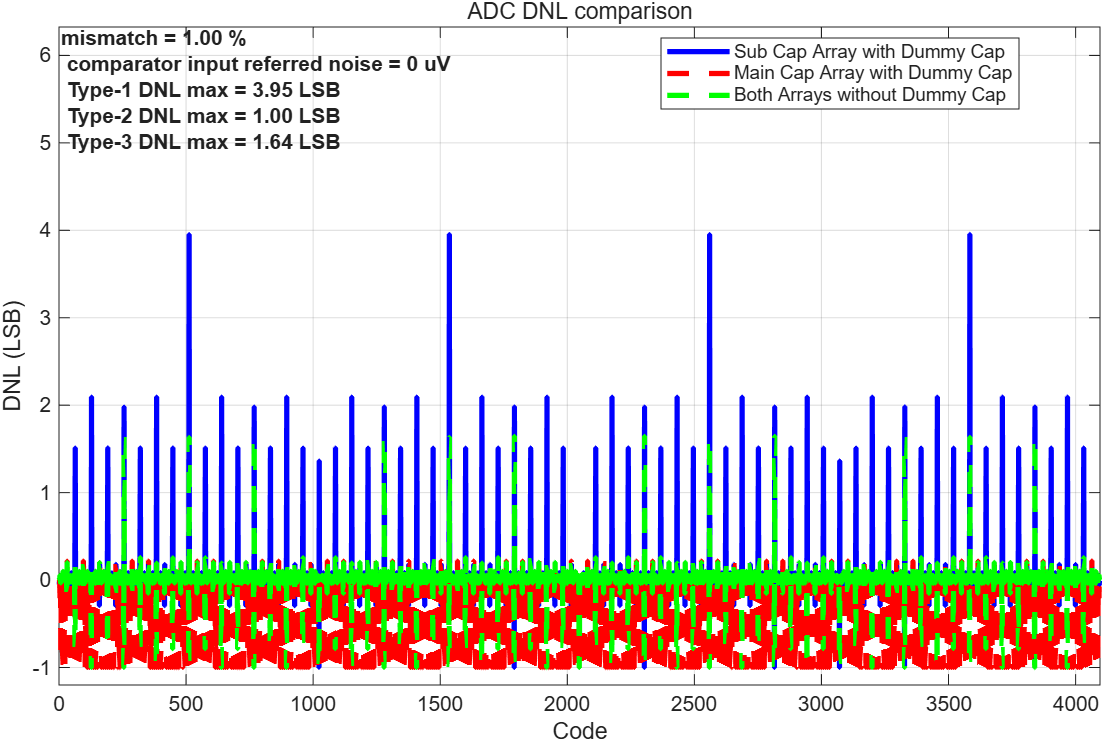
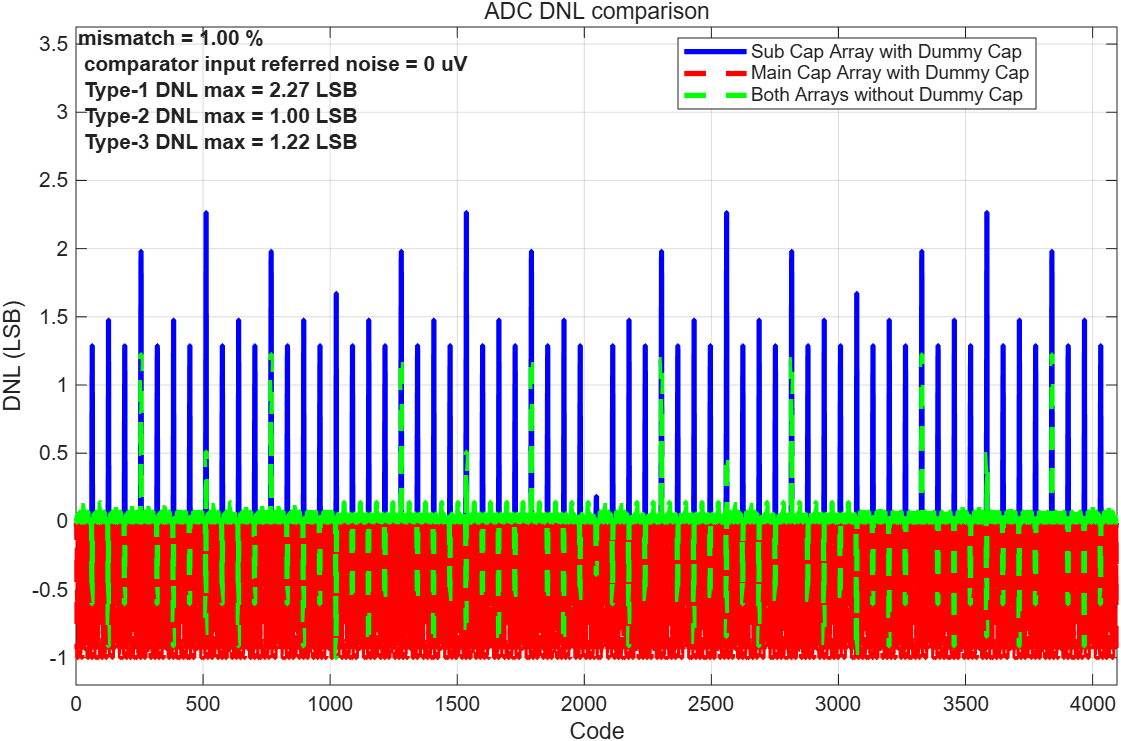
add the conversion error test of different bwa adcs

diff --git a/testbench/sim-bwa-architecture-comparison/simDifferentialConventionalBwaAdcComparisonDynamicTest.m b/testbench/sim-bwa-architecture-comparison/simDifferentialConventionalBwaAdcComparisonDynamicTest.m
@@ -7,7 +7,7 @@ format long g
 
 %% load simulation configuration and parameters
 
-p = configDynamicTest();
+p = configDifferentialBwaAdcComparisonDynamicTest();
 
 %% allocate storage for simulation data
 
@@ -16,46 +16,59 @@ idealDacOutput = nan( p.fftLen, 3 );
 sndrResult = nan( 3, 1 );
 enobResult = nan( 3, 1 );
 
+%% set the seed
+
+rng( 100 );
+
+%% generate samples
+
+samples = genDifferentialSamples( p );
+
 %% select different architecture
 
 dacTopology = {'split-array_type-1', 'split-array_type-2', 'split-array_type-3'};
-for iTopology = 1 : length( dacTopology )
-  p.dacTopology = dacTopology{ iTopology };
 
-  %% set the seed
+%% set the mismatch standard deviation for the comparison
 
-  rng( 10 );
+mismatchStd = { 0, 0.01};
 
-  %% generate samples
+for iMismatchStd = 1 : length( mismatchStd )
 
-  samples = genDifferentialSamples( p );
+  p.mismatchStd = mismatchStd{ iMismatchStd };
 
-  %% generate CDAC array
 
-  positiveCapArray = genBwaCdac( p );
-  negativeCapArray = genBwaCdac( p );
+  for iTopology = 1 : length( dacTopology )
 
-  %% run simulation
+    p.dacTopology = dacTopology{ iTopology };
 
-  for iSample = 1 : p.fftLen
-    samplePositive = samples.positiveInput( iSample );
-    sampleNegative = samples.negativeInput( iSample );
-    conversionResult( iSample, :, iTopology ) = differentialBwaConventionalSarAdc( samplePositive, sampleNegative, p, positiveCapArray, negativeCapArray );
-    idealDacOutput( iSample, iTopology ) = idealDAC( conversionResult( iSample, :, iTopology ) );
+    %% generate CDAC array
+
+    positiveCapArray = genBwaCdac( p );
+    negativeCapArray = genBwaCdac( p );
+
+    %% run simulation
+
+    for iSample = 1 : p.fftLen
+      samplePositive = samples.positiveInput( iSample );
+      sampleNegative = samples.negativeInput( iSample );
+      conversionResult( iSample, :, iTopology ) = differentialBwaConventionalSarAdc( samplePositive, sampleNegative, p, positiveCapArray, negativeCapArray );
+      idealDacOutput( iSample, iTopology ) = idealDAC( conversionResult( iSample, :, iTopology ) );
+    end
+
   end
-
   %% process simulation data
 
-  adcDynamicPerformanceMetrics = processAdcData( p, samples, idealDacOutput( :, iTopology ) );
+  adcDynamicPerformanceMetrics = processComparisonDifferentialBwaAdcDynamicData( p, samples, idealDacOutput );
 
   %% plot simulation results
 
-  obj = plotAdcDynamicSimulationResult( p, adcDynamicPerformanceMetrics );
+  obj = plotComparisonDifferentialAdcDynamicSimulationResult( p, adcDynamicPerformanceMetrics );
 
   %% export plots
 
-  drawingSpectrum = sprintf( 'drawing/comparison-differential-bwa-type-%d-spectrum.png', iTopology );
+  drawingSpectrum = sprintf( 'drawing/comparison-differential-bwa-spectrum-mismatch-%.2f.png', p.mismatchStd );
   exportgraphics( obj, drawingSpectrum );
 
 end
+
 

diff --git a/testbench/sim-bwa-architecture-comparison/simDifferentialBwaAdcGainErrorTest.m b/testbench/sim-bwa-architecture-comparison/simDifferentialBwaAdcGainErrorTest.m
@@ -1,0 +1,62 @@
+%% simulation preparation
+
+clear
+close all
+clc
+format long g
+
+%% load simulation configuration and parameters
+
+p = configDifferentialBwaAdcComparisonStaticTest();
+
+%% ramp histogram method
+
+%% generate samples
+
+histogramSamples = genDifferentialRampSamples( p );
+
+%% allocate storage for simulation data
+
+numTotalHistogramSamples = numel( histogramSamples.Positive );
+conversionHistogramResult = nan( numTotalHistogramSamples, p.adcResolution, 3 );
+histogramIdealDacOutput = nan( numTotalHistogramSamples, 3 );
+
+%% select different architecture
+
+dacTopology = {'split-array_type-1', 'split-array_type-2', 'split-array_type-3'};
+for iTopology = 1 : length( dacTopology )
+
+  p.dacTopology = dacTopology{ iTopology };
+
+  rng( 66 );
+ 
+  %% generate CDAC array
+
+  positiveCapArray = genBwaCdac( p );
+  negativeCapArray = genBwaCdac( p );
+
+  %% run simulation
+
+  for iSample = 1 : numTotalHistogramSamples
+    samplePositive = histogramSamples.Positive( iSample );
+    sampleNegative = histogramSamples.Negative( iSample );
+    conversionHistogramResult( iSample, :, iTopology ) = differentialBwaMonotonicSarAdc( samplePositive, sampleNegative, p, positiveCapArray, negativeCapArray );
+    histogramIdealDacOutput( iSample, iTopology ) = idealDAC( conversionHistogramResult( iSample, :, iTopology ) );
+  end
+
+
+end
+
+%% process simulation data
+
+adcHistogramStaticPerformanceMetrics  = processComparisonDifferentialMonotonicBwaAdcHistogramData( p, histogramIdealDacOutput );
+
+%% plot simulation results
+
+obj = plotDifferentialBwaAdcConversionError( p, adcHistogramStaticPerformanceMetrics );
+
+%% export plots
+
+drawing = 'drawing/comparison-differential-bwa-adc-conversion-error.png';
+exportgraphics( obj, drawing );
+

diff --git a/function/plotComparisonDifferentialAdcDynamicSimulationResult.m b/function/plotComparisonDifferentialAdcDynamicSimulationResult.m
@@ -1,0 +1,53 @@
+function obj = plotComparisonDifferentialAdcDynamicSimulationResult( p, adcDynamicPerformanceMetrics )
+
+  %% create figure
+
+  obj = figure;
+
+  %% topology names
+
+  topologyName = {'Sub Cap Array with Dummy Cap', 'Main Cap Array with Dummy Cap', 'Both Arrays without Dummy Cap'};
+
+  %% calculate noise floor
+
+  noiseFloor = - ( 6.02 * p.adcResolution + 1.76 ) - 10 * log10( p.fftLen / 2 );
+
+  %% plot different architectures
+
+  for iTopology = 1 : 3
+    %% set display floor
+
+    spectrumDb = adcDynamicPerformanceMetrics.spectrumDb( :, iTopology );
+    displayFloor = noiseFloor - 10;
+
+    spectrumDb( ~isfinite( spectrumDb ) ) = displayFloor;
+    subplot( 3, 1, iTopology );
+
+    plot( adcDynamicPerformanceMetrics.frequency / 1e6, adcDynamicPerformanceMetrics.spectrumDb, 'b', 'LineWidth', 2.5 );
+
+    xlabel( 'Frequency (MHz)' );
+    ylabel( 'Magnitude (dBFS)' );
+
+    title( topologyName{ iTopology } );
+
+    text( max( adcDynamicPerformanceMetrics.frequency / 1e6 ) * 0.7, -20, sprintf( 'SNDR = %.2f dB\nENOB = %.2f bit', adcDynamicPerformanceMetrics.sndr( iTopology ), adcDynamicPerformanceMetrics.enob( iTopology ) ), 'FontWeight', 'bold' );
+
+    ylim( [noiseFloor - 10, 5] );
+
+    grid on;
+
+  end
+
+  %% overall title
+
+  if p.mismatchStd == 0
+
+    sgtitle( 'BWA ADC Dynamic Comparison without Mismatch' );
+
+  else
+
+    sgtitle( sprintf( 'BWA ADC Dynamic Comparison with %.2f %% Mismatch', p.mismatchStd * 100 ) );
+
+  end
+
+end

diff --git a/function/processComparisonDifferentialMonotonicBwaAdcHistogramData.m b/function/processComparisonDifferentialMonotonicBwaAdcHistogramData.m
@@ -1,0 +1,36 @@
+function adcStaticPerformanceMetrics = processComparisonDifferentialMonotonicBwaAdcHistogramData( p,  conversionResult )
+
+  %% allocate storage for simulation data
+  codeCount = nan( 2 .^ p.adcResolution, 3 );
+  dnlResult = nan( 2 .^ p.adcResolution - 2, 3 );
+  inlResult = nan( 2 .^ p.adcResolution - 2, 3 );
+  gainError = nan( 3, 1 );
+  offsetError = nan( 3, 1 );
+
+  %% calculate ideal LSB and edges
+
+  edges = -0.5 : 1 : 2 .^ ( p.adcResolution ) - 0.5;
+
+  for iTopology = 1 : 3
+
+    %% find actual hits of each code
+
+    codeCount( :, iTopology ) = histcounts( conversionResult( :, iTopology ), edges ) .';
+
+    %% calculate DNL and INL
+
+    dnlResult( :, iTopology ) = codeCount( 2 : end - 1, iTopology ) / p.samplesPerStair - 1;
+    inlResult( :, iTopology ) = cumsum( dnlResult( :, iTopology ) );
+    fitCoefficient = polyfit( 1 : 2 .^ p.adcResolution - 2, inlResult( :, iTopology ) .' , 1 );
+    gainError( iTopology ) = fitCoefficient( 1 ) * 100;
+    offsetError( iTopology ) = fitCoefficient( 2 );
+  end
+
+  %% save the result
+
+  adcStaticPerformanceMetrics.inlResult = inlResult;
+  adcStaticPerformanceMetrics.inlCodeIndex = 1 : 2 .^ p.adcResolution - 2;
+  adcStaticPerformanceMetrics.gainError = gainError;
+  adcStaticPerformanceMetrics.offsetError = offsetError;
+
+end

diff --git a/function/processComparisonDifferentialBwaAdcDynamicData.m b/function/processComparisonDifferentialBwaAdcDynamicData.m
@@ -1,0 +1,47 @@
+function adcDynamicPerformanceMetrics = processComparisonDifferentialBwaAdcDynamicData( p, samples, idealDacOutput )
+
+  %% delete DC component
+
+  fftSample = idealDacOutput - mean( idealDacOutput, 1 );
+
+  %% calculate FFT
+
+  spectrum = fft( fftSample, [], 1 );
+
+  %% obtain single-sided spectrum
+
+  spectrumSingle = spectrum( 1 : p.fftLen / 2, : );
+
+  %% calculate SNDR
+  
+  sndrResult = nan( 3, 1 );
+  for iSndrResult = 1 : 3
+    sndrResult( iSndrResult ) = calculateSNR( spectrumSingle( : , iSndrResult ), samples.toneBin, 0 );
+  end
+
+  %% calculate ENOB
+
+  enobResult = ( sndrResult - 1.76 ) / 6.02;
+ %% generate frequency axis
+
+  frequency = ( 0 : p.fftLen / 2 - 1 ).' * p.fs / p.fftLen;
+
+  %% normalize spectrum for display
+
+  fullScale = 2 .^ ( p.adcResolution - 1 );
+  spectrumNormalized = spectrumSingle / ( p.fftLen / 2 ) / fullScale;
+
+  %% convert spectrum to dB
+
+  spectrumDb = dbv( spectrumNormalized );
+
+  %% store results
+
+  adcDynamicPerformanceMetrics.sndr = sndrResult;
+  adcDynamicPerformanceMetrics.enob = enobResult;
+  adcDynamicPerformanceMetrics.frequency = frequency;
+  adcDynamicPerformanceMetrics.spectrum = spectrumSingle;
+  adcDynamicPerformanceMetrics.spectrumDb = spectrumDb;
+
+end
+

diff --git a/function/plotDifferentialBwaAdcConversionError.m b/function/plotDifferentialBwaAdcConversionError.m
@@ -1,0 +1,40 @@
+function obj = plotDifferentialBwaAdcConversionError( p, adcStaticPerformanceMetrics )
+
+  %% create figure
+
+  obj = figure;
+
+  %% calculate voltage LSB
+
+  voltLSB = 2 * p.vRef / ( 2 .^   ( p.adcResolution ) );
+
+  %% topology names
+
+  topologyName = {'Sub Cap Array with Dummy Cap', 'Main Cap Array with Dummy Cap', 'Both Arrays without Dummy Cap'};
+
+  %% plot different architectures
+
+  for iTopology = 1 : 3
+
+    subplot( 3, 1, iTopology );
+
+    plot( adcStaticPerformanceMetrics.inlCodeIndex, adcStaticPerformanceMetrics.inlResult( : , iTopology ) * voltLSB, 'b', 'LineWidth', 2.5 );
+
+    xlabel( 'Code' );
+    ylabel( 'Conversion Error (V)' );
+    title( topologyName{ iTopology } );
+
+    text( 0.99, 0.99, sprintf( 'gain error = %.2f %%  ', adcStaticPerformanceMetrics.gainError( iTopology ) ), 'Units', 'normalized', 'HorizontalAlignment', 'right','VerticalAlignment', 'top', 'FontWeight', 'bold' );
+    allInlResult = adcStaticPerformanceMetrics.inlResult( :, iTopology ) * voltLSB;
+    xlim( [0, 2 .^   ( p.adcResolution ) ] );
+    ylim( [1.2 * min( allInlResult ), 1.5 * max( allInlResult )] );
+
+    grid on;
+
+  end
+
+  %% overall title
+
+  sgtitle( 'BWA ADC Conversion Error Comparison ' );
+
+end

diff --git a/sim-config/configDifferentialBwaAdcComparisonDynamicTest.m b/sim-config/configDifferentialBwaAdcComparisonDynamicTest.m
@@ -1,0 +1,37 @@
+function p = configDifferentialBwaAdcComparisonDynamicTest
+
+  %% basic specification
+
+  p.adcResolution = 12;
+  p.fftLen = 16384;
+  p.vRef = 1.2;
+  p.fs = 10e6;
+  p.randomInputFrequency = true;
+  p.toneBin = 103;
+  p.vcm = 0;
+  p.inputAmplitude = 1.1;
+  p.k = 1.380649e-23;   
+  p.temperature = 300;  
+
+  %% CDAC specification
+
+  p.smallestCap = 50e-15;
+  p.numOfSmallestCap = 1;
+  p.unitCap = p.smallestCap * p.numOfSmallestCap;
+  p.mismatchStd = 0.01;
+  p.capPar = 0;
+  p.dacVcm = 0;
+  p.mainArraySize = 6;
+  p.subArraySize = 6;
+  p.capParMain = 0;
+  p.capParSub = 0;
+  p.dacTopology = 'split-array_type-3';
+  p.matching = 'good';
+  p.bridgeCapWeight = 1;
+  
+  %% Comparator specification
+
+  p.compVos = 0;
+  p.compNoise = 0;
+  
+end

diff --git a/function/processComparisonDifferentialMonotonicBwaAdcFastInlData.m b/function/processComparisonDifferentialMonotonicBwaAdcFastInlData.m
@@ -1,4 +1,4 @@
-function adcStaticPerformanceMetrics = processComparisonDifferentialBwaAdcFastInlData( p,  conversionResult )
+function adcStaticPerformanceMetrics = processComparisonDifferentialMonotonicBwaAdcFastInlData( p,  conversionResult )
 
   %% allocate storage for simulation data
   codeCount = nan( 2 .^ p.adcResolution, 3 );

diff --git a/testbench/sim-bwa-architecture-comparison/simDifferentialConventionalBwaAdcComparisonStaticTest.m b/testbench/sim-bwa-architecture-comparison/simDifferentialConventionalBwaAdcComparisonStaticTest.m
@@ -28,7 +28,7 @@ for iTopology = 1 : length( dacTopology )
 
   p.dacTopology = dacTopology{ iTopology };
 
-  rng( 21 );
+  rng( 66 );
  
   %% generate CDAC array
 
